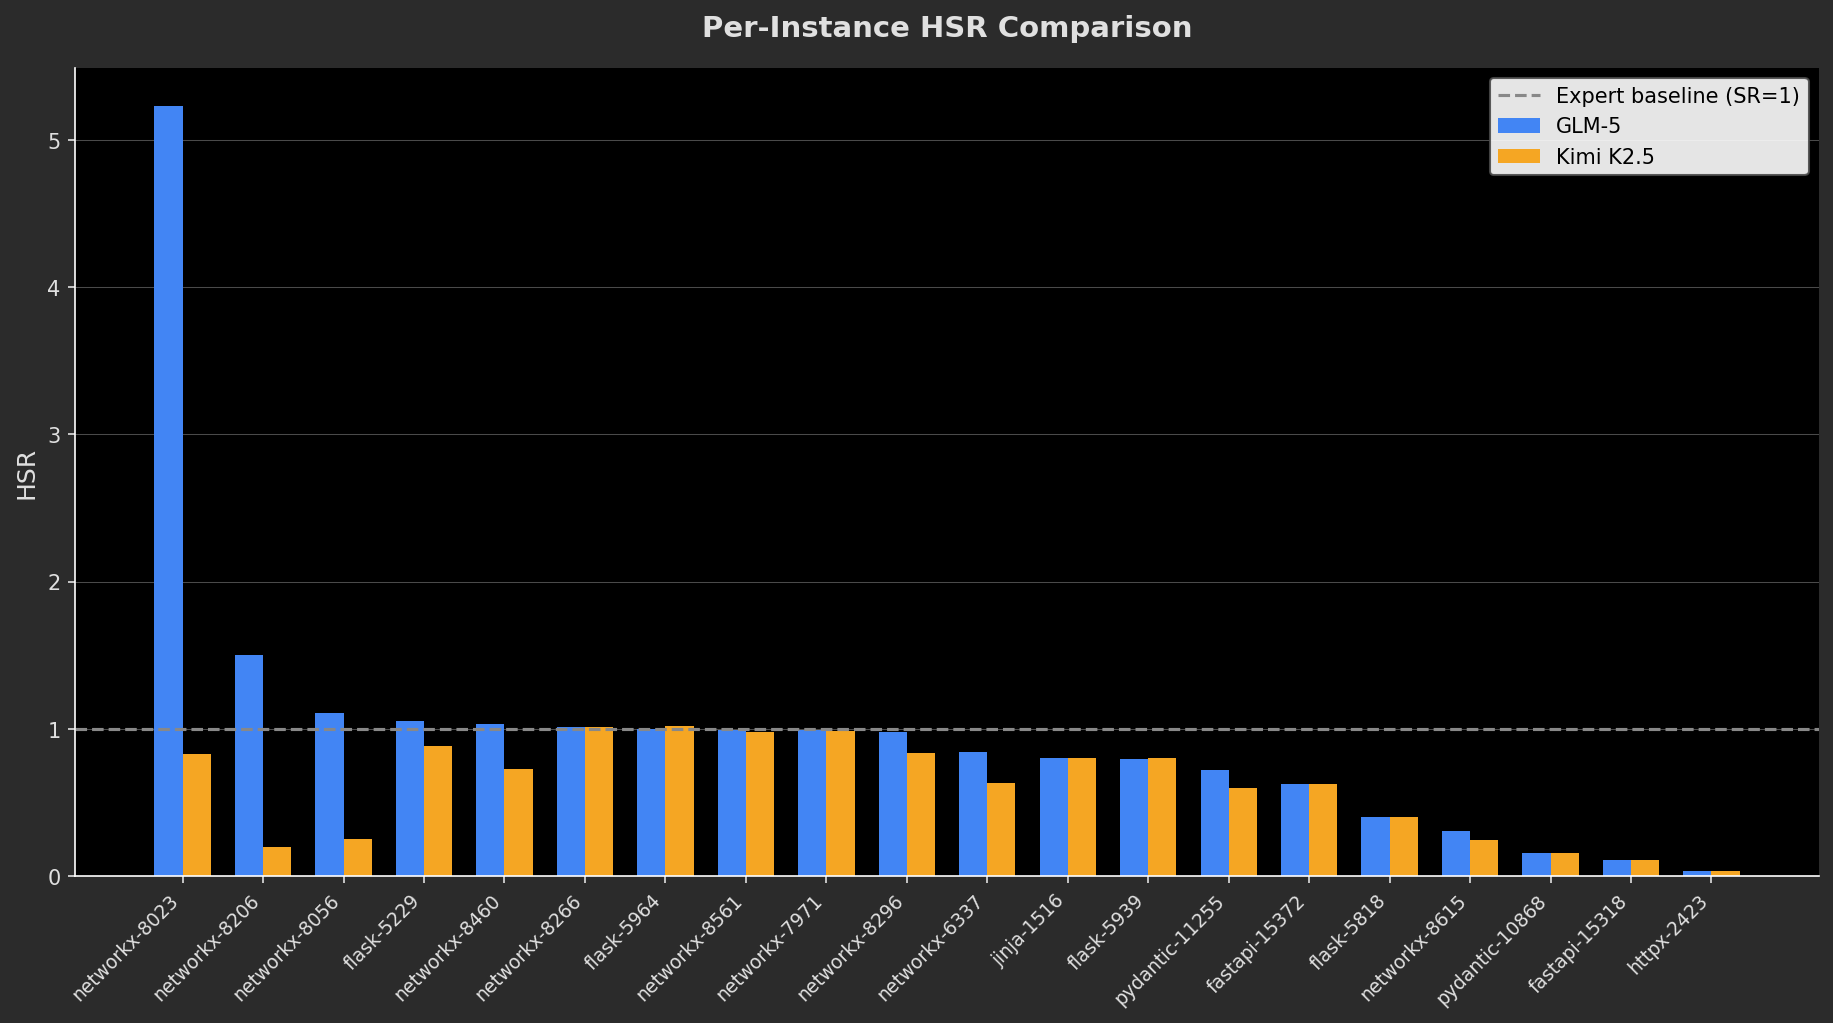
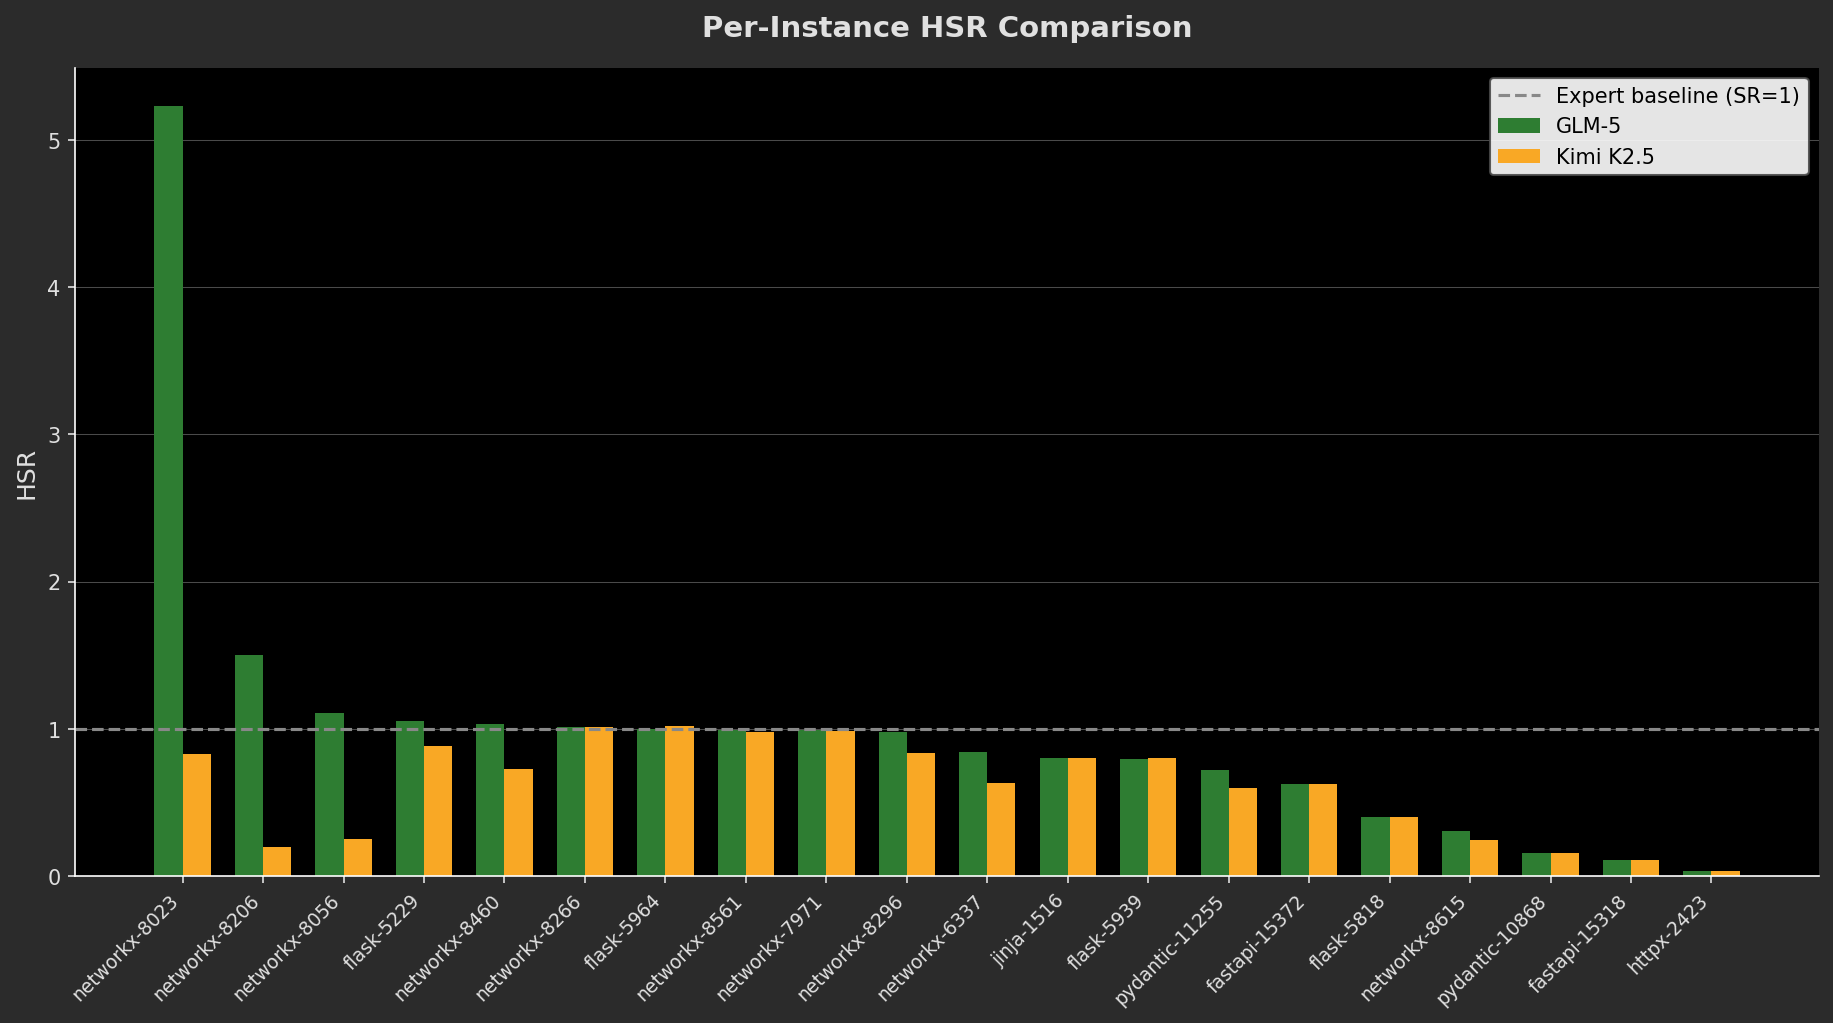
update: chart colors (GLM→green, Kimi→yellow), percentage scale for HSR/outcome charts, fix lightbox theme detection

diff --git a/custom_addons/kraken_dashboard/static/src/portal/js/kraken_portal.js b/custom_addons/kraken_dashboard/static/src/portal/js/kraken_portal.js
@@ -429,10 +429,7 @@
 
   const openLightbox = (trigger) => {
     if (!lightbox) return;
-    const img = trigger.querySelector('img:not([style*="display: none"]):not(.chart-dark):not(.chart-light)') ||
-                trigger.querySelector('img.chart-dark:not([style*="display: none"])') ||
-                trigger.querySelector('img.chart-light:not([style*="display: none"])') ||
-                Array.from(trigger.querySelectorAll('img')).find(i => getComputedStyle(i).display !== 'none') ||
+    const img = Array.from(trigger.querySelectorAll('img')).find(i => getComputedStyle(i).display !== 'none') ||
                 trigger.querySelector('img');
     const figcap = trigger.closest('figure')?.querySelector('figcaption');
     if (!img) return;

diff --git a/custom_addons/kraken_dashboard/generate_charts.py b/custom_addons/kraken_dashboard/generate_charts.py
@@ -19,8 +19,8 @@ with open(DATA_PATH, 'r') as f:
     instances = json.load(f)
 
 # --- Color Palette ---
-COLOR_GLM5 = '#4285F4'
-COLOR_NOVA = '#F5A623'
+COLOR_GLM5 = '#2E7D32'   # Green
+COLOR_NOVA = '#F9A825'   # Yellow
 COLOR_EXPERT = '#888888'
 
 # --- Theme configs ---
@@ -83,20 +83,19 @@ def chart_01(theme, suffix):
     fig, ax = plt.subplots(figsize=(10, 8))
     
     models = ['GLM-5', 'Kimi K2.5']
-    values = [0.310, 0.268]
+    values = [31.0, 26.8]
     colors = [COLOR_GLM5, COLOR_NOVA]
     
     bars = ax.bar(models, values, width=0.4, color=colors, edgecolor='none')
     
     ax.set_title('Speedup Ratio (HSR) — Harmonic Mean', fontsize=14, fontweight='bold',
                  pad=15, color=theme['text_color'])
-    ax.set_ylabel('Harmonic Mean HSR', fontsize=12, color=theme['text_color'])
-    ax.set_ylim(0, 0.35)
+    ax.set_ylabel('Harmonic Mean HSR (%)', fontsize=12, color=theme['text_color'])
+    ax.set_ylim(0, 35)
     
-    # Annotations above bars
     for bar, val in zip(bars, values):
-        ax.text(bar.get_x() + bar.get_width() / 2, bar.get_height() + 0.008,
-                f'{val:.3f}x', ha='center', va='bottom', fontsize=16, fontweight='bold',
+        ax.text(bar.get_x() + bar.get_width() / 2, bar.get_height() + 0.8,
+                f'{val:.1f}%', ha='center', va='bottom', fontsize=16, fontweight='bold',
                 color=theme['text_color'])
     
     apply_theme(fig, ax, theme)
@@ -110,8 +109,8 @@ def chart_02(theme, suffix):
     fig, ax = plt.subplots(figsize=(10, 7))
     
     categories = ['Fail', 'Correct but Slow', 'Pass (SR >= 1)']
-    glm5_data = [7, 8, 5]
-    nova_data = [9, 10, 1]
+    glm5_data = [7/20*100, 8/20*100, 5/20*100]
+    nova_data = [9/20*100, 10/20*100, 1/20*100]
     x = np.arange(len(categories))
     
     ax.plot(x, glm5_data, '--', marker='o', markersize=10, color=COLOR_GLM5,
@@ -119,20 +118,19 @@ def chart_02(theme, suffix):
     ax.plot(x, nova_data, '-', marker='s', markersize=10, color=COLOR_NOVA,
             linewidth=2, label='Kimi K2.5')
     
-    # Data labels
     for i, (g, n) in enumerate(zip(glm5_data, nova_data)):
-        ax.text(i, g + 0.4, str(g), ha='center', va='bottom', fontsize=11,
+        ax.text(i, g + 2, f'{g:.0f}%', ha='center', va='bottom', fontsize=11,
                 fontstyle='italic', color=COLOR_GLM5)
-        ax.text(i, n - 0.6, str(n), ha='center', va='top', fontsize=11,
+        ax.text(i, n - 2, f'{n:.0f}%', ha='center', va='top', fontsize=11,
                 fontstyle='italic', color=COLOR_NOVA)
     
     ax.set_title('Patch Outcome Distribution', fontsize=14, fontweight='bold',
                  pad=15, color=theme['text_color'])
-    ax.set_ylabel('Number of Instances (out of 20)', fontsize=12, color=theme['text_color'])
+    ax.set_ylabel('Instances (%)', fontsize=12, color=theme['text_color'])
     ax.set_xticks(x)
     ax.set_xticklabels(categories, fontsize=11)
-    ax.set_ylim(0, 12)
-    ax.set_yticks(range(0, 13, 2))
+    ax.set_ylim(0, 100)
+    ax.set_yticks(range(0, 101, 20))
     ax.legend(loc='upper right', framealpha=0.9, edgecolor=theme['grid_color'])
     
     apply_theme(fig, ax, theme)
@@ -158,7 +156,6 @@ def chart_03(theme, suffix):
     ax.bar(x - width/2, glm5_hsr, width, color=COLOR_GLM5, label='GLM-5')
     ax.bar(x + width/2, nova_hsr, width, color=COLOR_NOVA, label='Kimi K2.5')
     
-    # Expert baseline
     ax.axhline(y=1.0, color=COLOR_EXPERT, linestyle='--', linewidth=1.5,
                label='Expert baseline (SR=1)')
     
@@ -201,7 +198,6 @@ def chart_04(theme, suffix):
     bars1 = ax.bar(x - width/2, glm5_means, width, color=COLOR_GLM5, label='GLM-5')
     bars2 = ax.bar(x + width/2, nova_means, width, color=COLOR_NOVA, label='Kimi K2.5')
     
-    # Annotations
     for bar in bars1:
         h = bar.get_height()
         ax.text(bar.get_x() + bar.get_width()/2, h + 0.02, f'{h:.2f}',
@@ -211,7 +207,6 @@ def chart_04(theme, suffix):
         ax.text(bar.get_x() + bar.get_width()/2, h + 0.02, f'{h:.2f}',
                 ha='center', va='bottom', fontsize=10, color=theme['text_color'])
     
-    # Baseline
     ax.axhline(y=1.0, color=COLOR_EXPERT, linestyle='--', linewidth=1.5)
     
     ax.set_title('Mean HSR by Task Difficulty', fontsize=14, fontweight='bold',
@@ -241,7 +236,6 @@ def chart_05(theme, suffix):
     ax.scatter(nova_cost, nova_hsr, c=COLOR_NOVA, s=80, alpha=0.8,
                edgecolors='none', label='Kimi K2.5', zorder=3)
     
-    # Expert baseline
     ax.axhline(y=1.0, color=COLOR_EXPERT, linestyle='--', linewidth=1.5,
                label='Expert baseline (SR=1)', zorder=2)
     
@@ -273,7 +267,6 @@ def chart_06(theme, suffix):
     bars1 = ax.bar(x - width/2, glm5_vals, width, color=COLOR_GLM5, label='GLM-5')
     bars2 = ax.bar(x + width/2, nova_vals, width, color=COLOR_NOVA, label='Kimi K2.5')
     
-    # Annotations in series color
     for bar, ann in zip(bars1, annotations_glm5):
         h = bar.get_height()
         ax.text(bar.get_x() + bar.get_width()/2, h + 0.015, ann,
